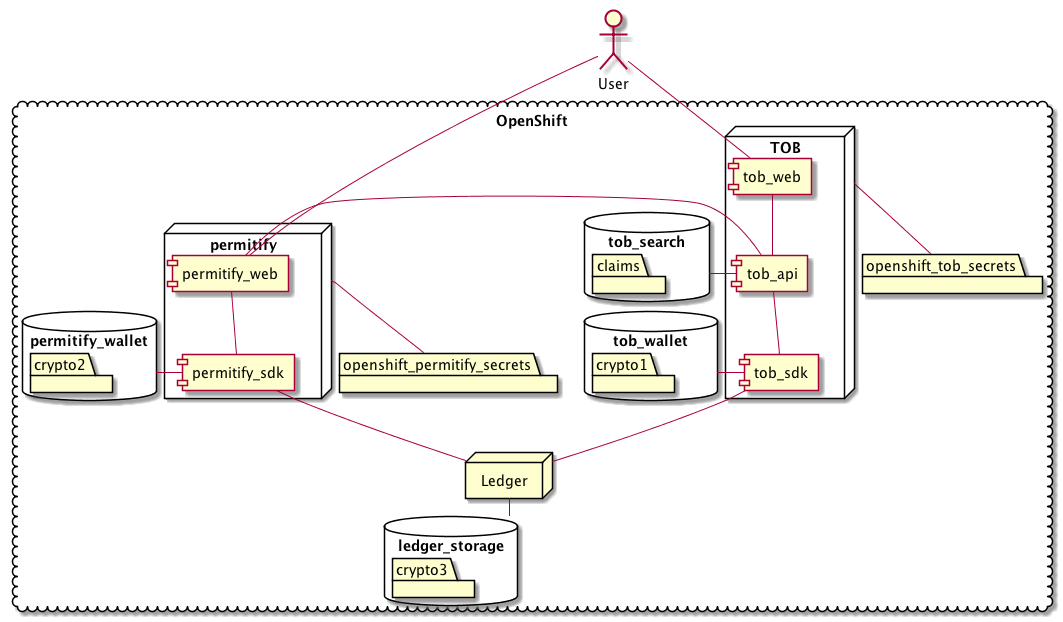
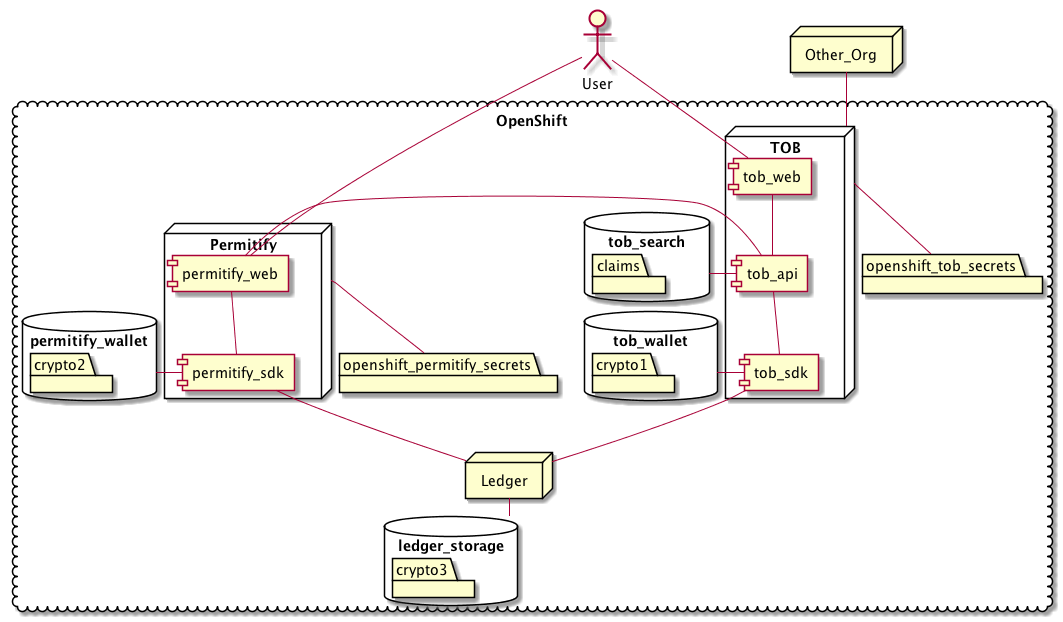
Wallet EKM overview work in progress

diff --git a/doc/wallet/enterprise-wallet-key-management.md b/doc/wallet/enterprise-wallet-key-management.md
@@ -82,12 +82,18 @@ TOB is deployed within OpenShift, and runs in a collection of Containers.  OpenS
 
 ## TOB/DID Key Management
 
-TheOrgBook and Permitify are provided a SEED on startup, and this SEED is used to calculate the DID for the organization.  This DID is stored in the SDK Wallet, so an alternate method of securing the startup process is possible.  (Since the DID is available in the Wallet, the application can read the DID on startup.  However in this scenario a startup password or key should be required.)
+TheOrgBook and Permitify are provided a SEED on startup, and this SEED is used to calculate the DID for the organization.  This DID is stored in the SDK Wallet.
 
 Additional DID's are created for any submitting service (e.g. BC Registries) - TheOrgBook will require pairwise DID's for each relationship (one DID identifying each participant) - these DID's are used only for this relationship.  These DID's are created through a manual process, and must also be available in the Wallet.
 
-TODO picture to follow ...
+There are two options of securing TheOrgBook DID's:
 
-Options for securing the creation and storage/retrieval of DID's includes:
+1. Store DID's (or SEEDs) in an HSM, and integrate with OpenShift:
 
-TBD options
+![TheOrgBook HSM Integration](https://github.com/ianco/indy-sdk/raw/ew_wallet_dev/doc/wallet/tob-integraion-1.png "TheOrgBook HSM Integration")
+
+1. Store root Crypto materials in an HSM, and implement some sort of EKM to generate SEEDs to integrate to OpenShift:
+
+![TheOrgBook EKM Integration](https://github.com/ianco/indy-sdk/raw/ew_wallet_dev/doc/wallet/tob-integraion-2.png "TheOrgBook EKM Integration")
+
+In either scenario, the capabilities to generate, rotate and delete keys must be considered.
